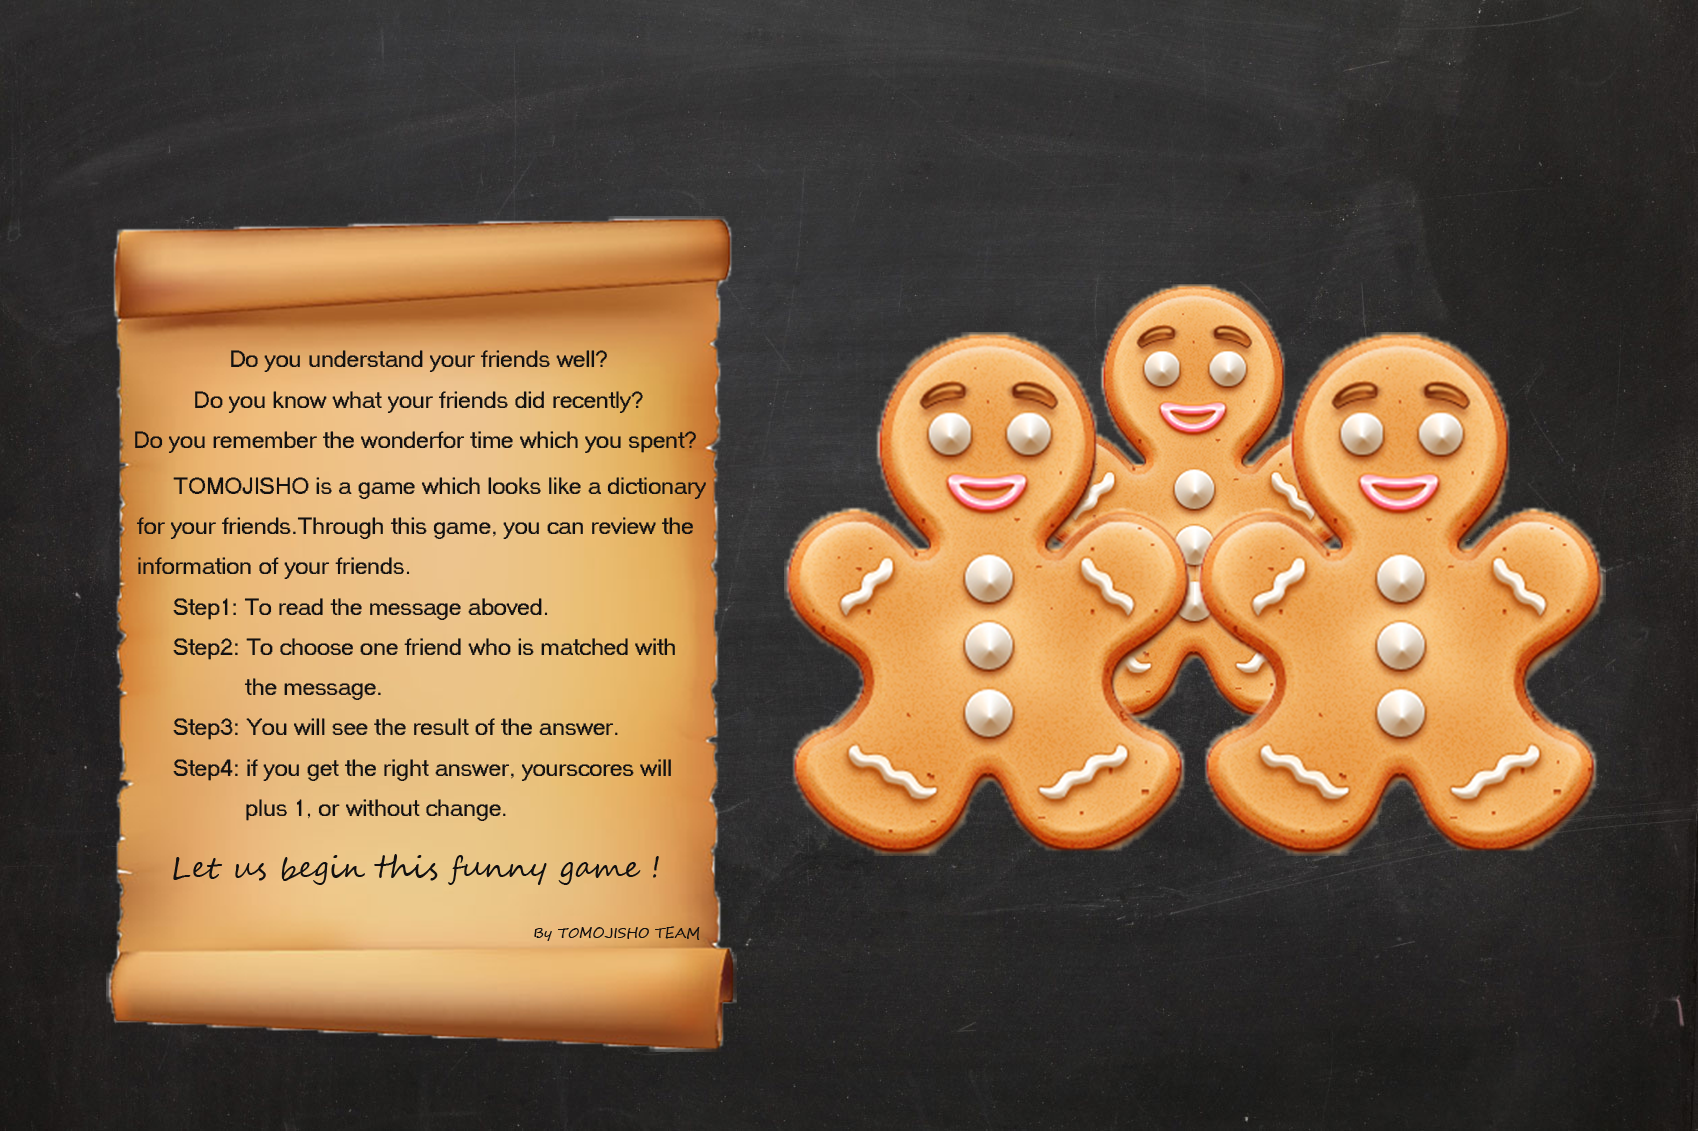
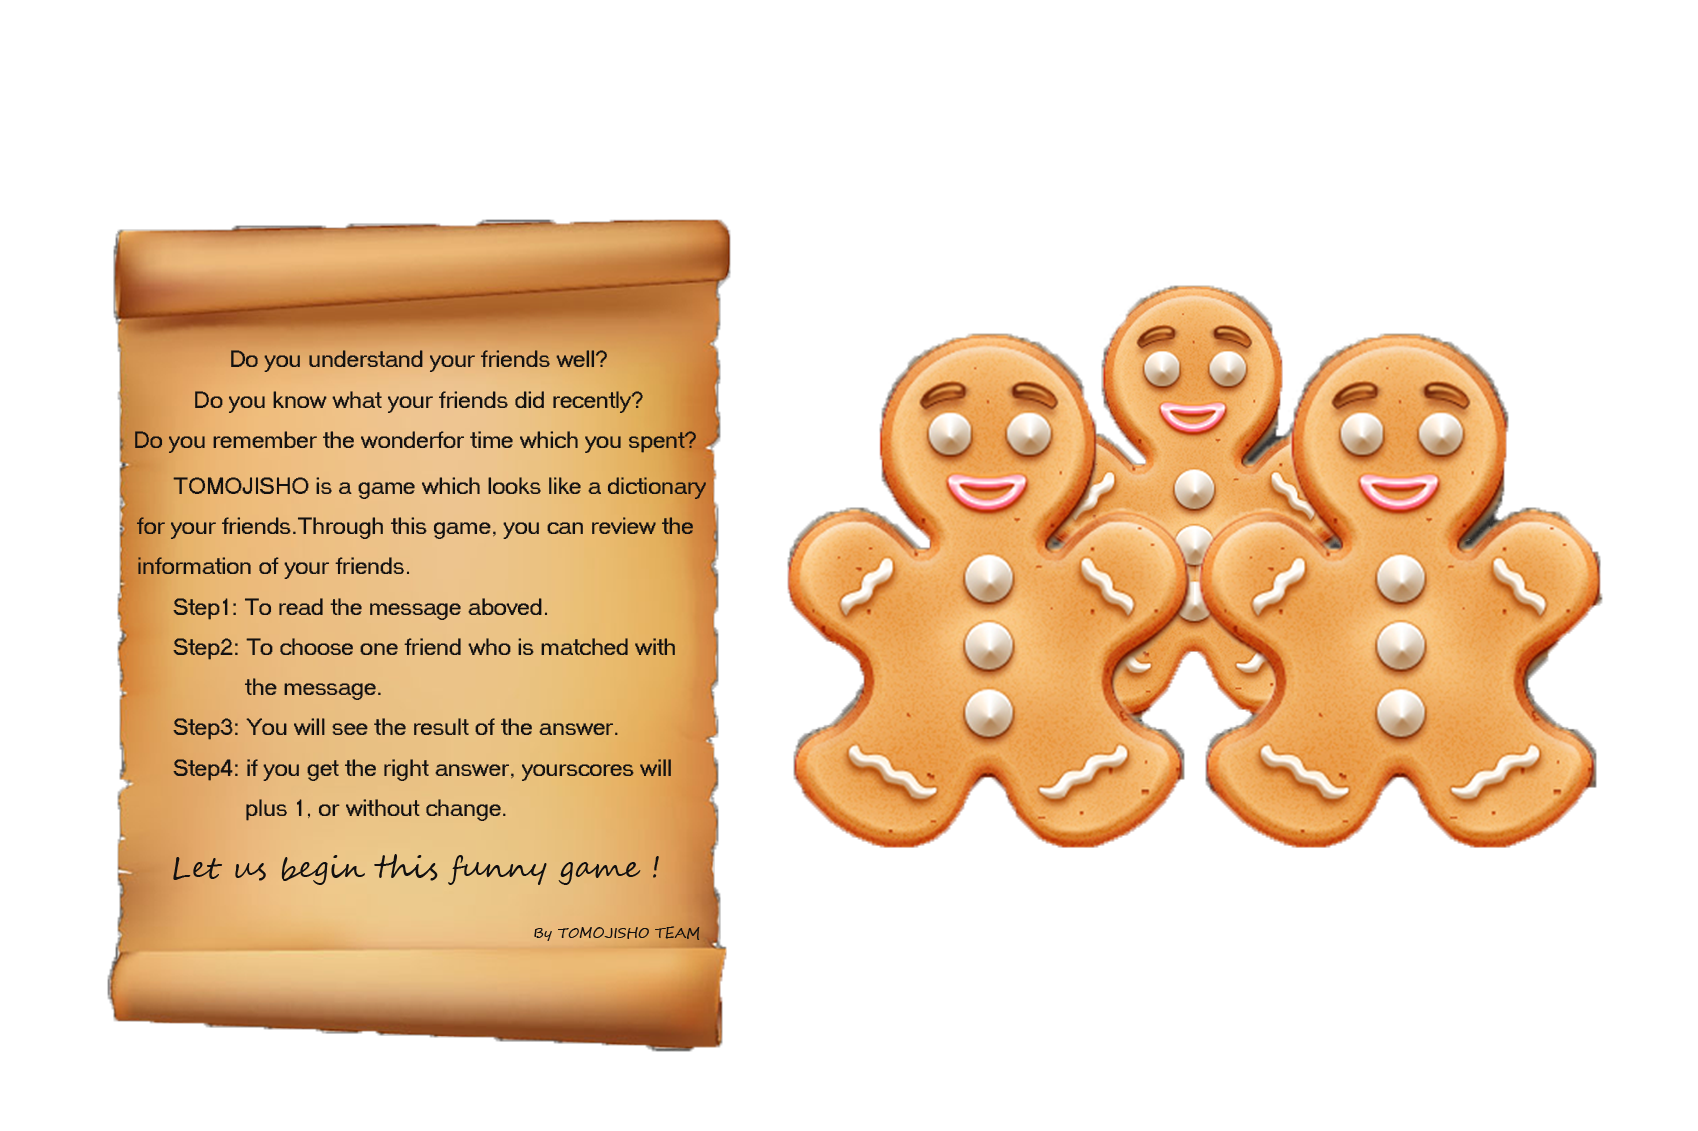
style for welcome screen

diff --git a/app/webroot/css/cake.generic.css b/app/webroot/css/cake.generic.css
@@ -33,7 +33,15 @@
   z-index:1001;
   -moz-opacity: 0.8;
   opacity:.80;
-  filter: alpha(opacity=80); 
+  filter: alpha(opacity=80);
+}
+
+#startgame-div{
+  background: url('../img/welcome-screen-background.png');
+}
+
+#startgame-div button{
+  background: url('../img/start-button.png');
 }
 
 #tomojisho-app {
